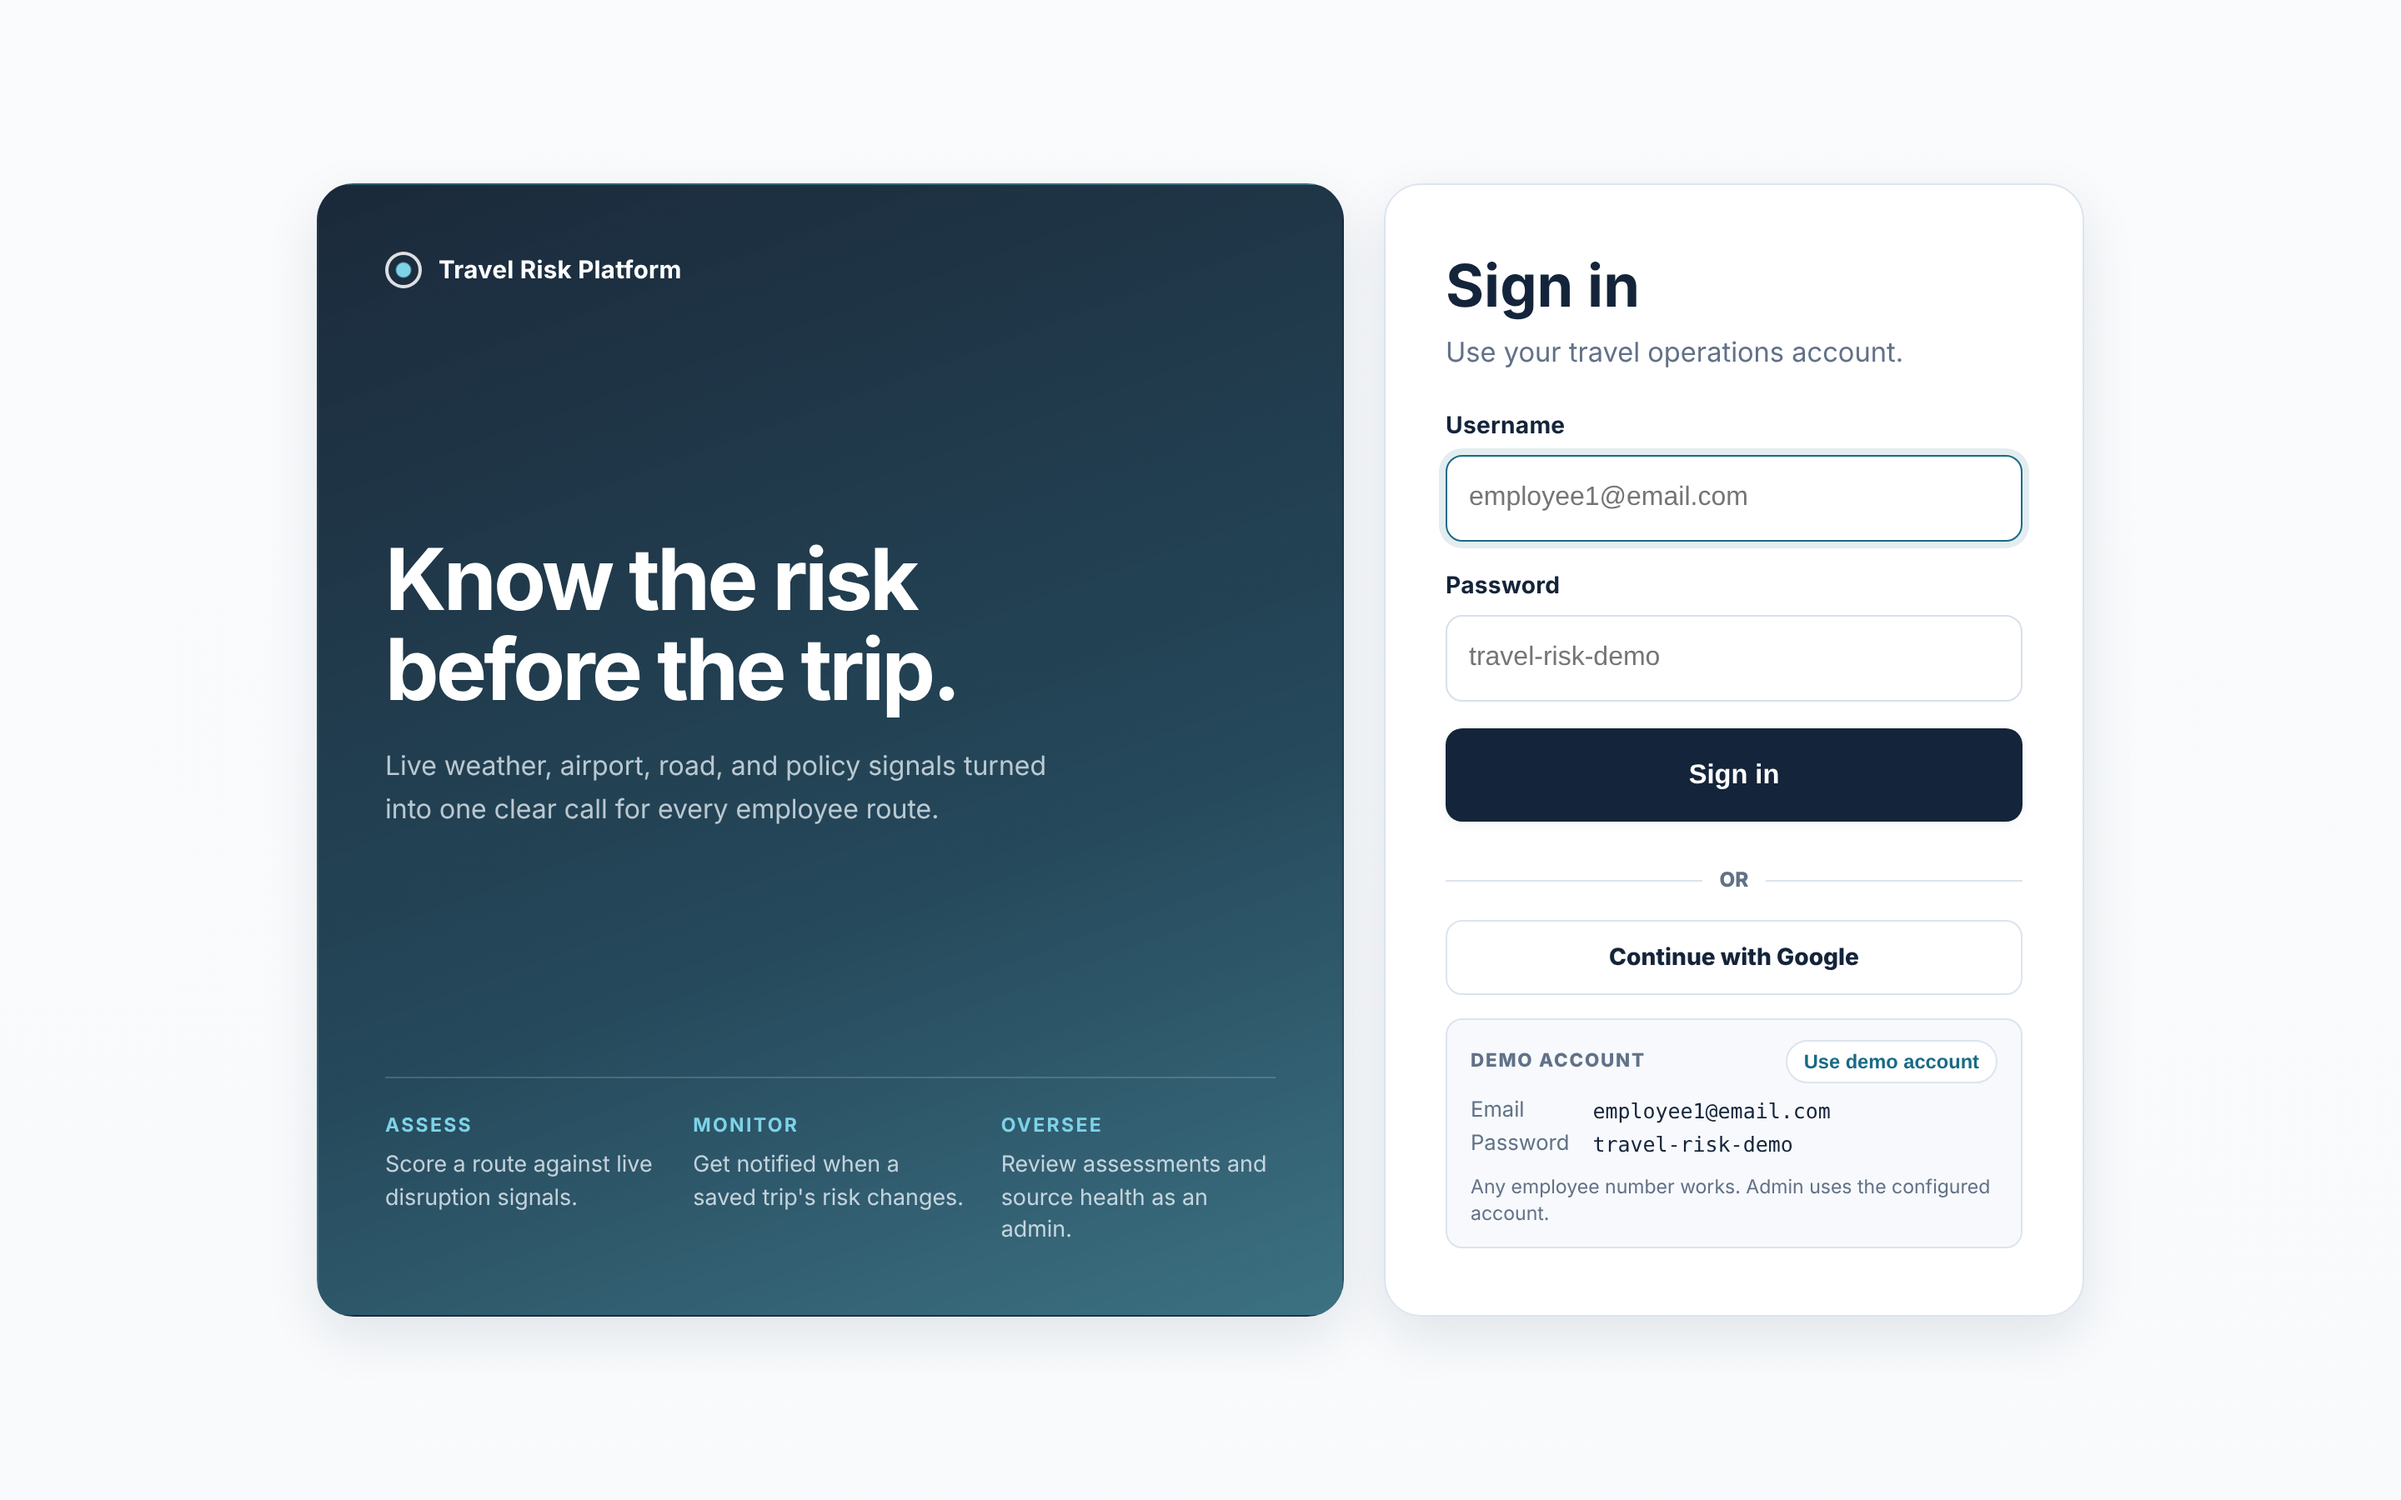
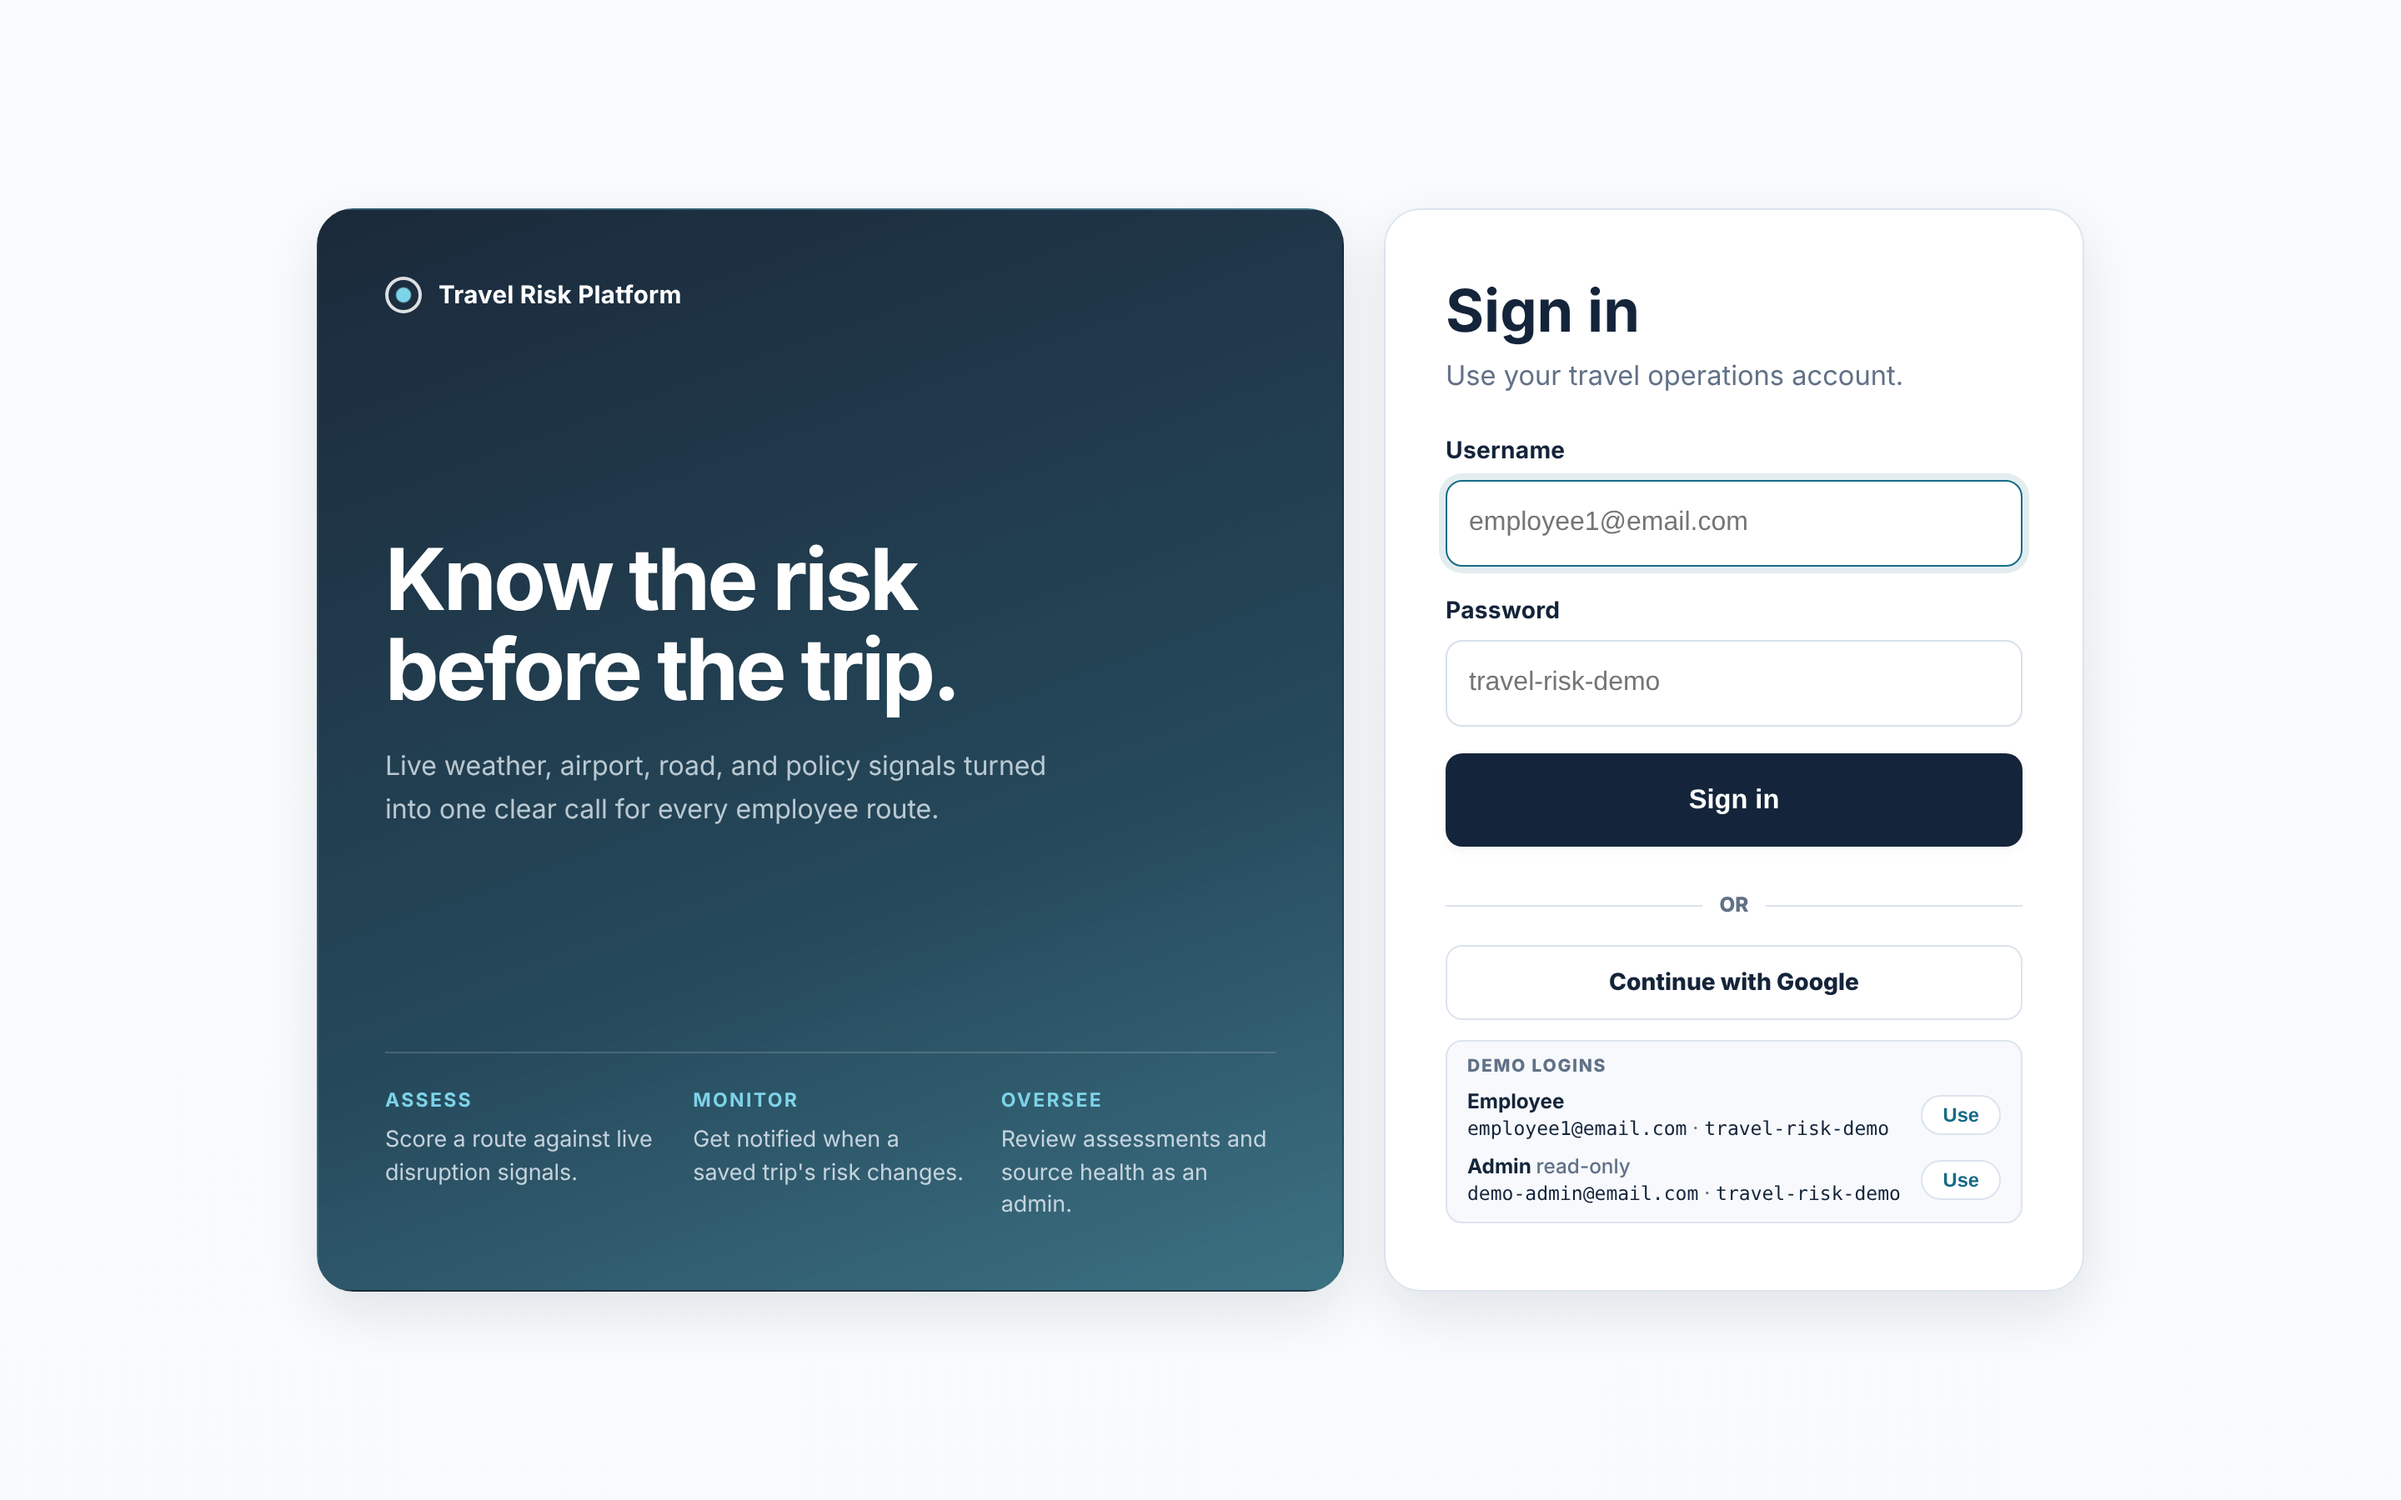
Make the login page demo logins compact
Merge the two demo boxes into one Demo logins panel with a row per
account and a small Use button, cutting its height from 276px to 110px
on desktop. Update README, demo script and login screenshot.

Claude-Session: https://claude.ai/code/session_01WgNrWASN7ot9DPt3NRGd4H

diff --git a/src/main/resources/static/login.html b/src/main/resources/static/login.html
@@ -54,31 +54,21 @@
     <a class="sso-button" href="/oauth2/authorization/google">Continue with Google</a>
 
     <section class="login-demo-note" aria-labelledby="demo-heading">
-      <div class="login-demo-header">
-        <h3 id="demo-heading">Demo account</h3>
-        <button type="button" class="login-demo-fill" data-demo-fill>Use demo account</button>
+      <h3 id="demo-heading">Demo logins</h3>
+      <div class="login-demo-row">
+        <div class="login-demo-account">
+          <span class="login-demo-role">Employee</span>
+          <span class="login-demo-creds"><code data-demo-username>employee1@email.com</code> · <code data-demo-password>travel-risk-demo</code></span>
+        </div>
+        <button type="button" class="login-demo-fill" data-demo-fill aria-label="Use demo employee account">Use</button>
       </div>
-      <dl class="login-demo-creds">
-        <dt>Email</dt>
-        <dd data-demo-username>employee1@email.com</dd>
-        <dt>Password</dt>
-        <dd data-demo-password>travel-risk-demo</dd>
-      </dl>
-      <p class="login-demo-hint">Any employee number works. Admin uses the configured account.</p>
-    </section>
-
-    <section class="login-demo-note hidden" aria-labelledby="demo-admin-heading" data-demo-admin>
-      <div class="login-demo-header">
-        <h3 id="demo-admin-heading">Demo admin (read-only)</h3>
-        <button type="button" class="login-demo-fill" data-demo-admin-fill>Use demo admin</button>
+      <div class="login-demo-row hidden" data-demo-admin>
+        <div class="login-demo-account">
+          <span class="login-demo-role">Admin <span class="login-demo-tag">read-only</span></span>
+          <span class="login-demo-creds"><code data-demo-admin-username></code> · <code data-demo-admin-password></code></span>
+        </div>
+        <button type="button" class="login-demo-fill" data-demo-admin-fill aria-label="Use demo admin account">Use</button>
       </div>
-      <dl class="login-demo-creds">
-        <dt>Email</dt>
-        <dd data-demo-admin-username></dd>
-        <dt>Password</dt>
-        <dd data-demo-admin-password></dd>
-      </dl>
-      <p class="login-demo-hint">Opens the admin dashboard for demo accounts only. It can't change or delete anything.</p>
     </section>
   </section>
 </main>

diff --git a/src/main/resources/static/styles.css b/src/main/resources/static/styles.css
@@ -217,36 +217,62 @@ body {
 
 .login-demo-note {
     display: grid;
-    gap: 8px;
-    margin-top: 14px;
-    padding: 12px 14px;
+    gap: 6px;
+    margin-top: 12px;
+    padding: 8px 12px;
     border: 1px solid var(--border-color);
     border-radius: var(--radius-sm);
     background: var(--bg-subtle);
-    font-size: 0.8rem;
-    line-height: 1.4;
+    font-size: 0.76rem;
+    line-height: 1.35;
 }
 
-.login-demo-header {
+.login-demo-note h3 {
+    margin: 0;
+    color: var(--text-muted);
+    font-size: 0.66rem;
+    font-weight: 800;
+    letter-spacing: 0.08em;
+    text-transform: uppercase;
+}
+
+.login-demo-row {
     display: flex;
     align-items: center;
     justify-content: space-between;
     gap: 10px;
 }
 
-.login-demo-header h3 {
-    margin: 0;
+.login-demo-account {
+    display: grid;
+    min-width: 0;
+}
+
+.login-demo-role {
+    color: var(--text-main);
+    font-weight: 700;
+}
+
+.login-demo-tag {
     color: var(--text-muted);
-    font-size: 0.7rem;
-    font-weight: 800;
-    letter-spacing: 0.08em;
-    text-transform: uppercase;
+    font-weight: 500;
+}
+
+.login-demo-creds {
+    overflow-wrap: anywhere;
+}
+
+.login-demo-creds code {
+    color: var(--text-main);
+    font-family: ui-monospace, SFMono-Regular, Menlo, Consolas, monospace;
+    font-size: 0.72rem;
 }
 
 .login-demo-fill {
+    flex: none;
     width: auto;
     min-height: 0;
-    padding: 5px 10px;
+    padding: 4px 12px;
     border: 1px solid var(--border-color);
     border-radius: 999px;
     background: var(--bg-card);
@@ -260,34 +286,6 @@ body {
 .login-demo-fill:hover {
     border-color: var(--accent);
     background: var(--bg-card);
-}
-
-.login-demo-creds {
-    display: grid;
-    grid-template-columns: auto minmax(0, 1fr);
-    gap: 2px 14px;
-    margin: 0;
-}
-
-.login-demo-creds dt {
-    color: var(--text-muted);
-}
-
-.login-demo-creds dd {
-    margin: 0;
-    overflow-wrap: anywhere;
-}
-
-.login-demo-creds dd {
-    color: var(--text-main);
-    font-family: ui-monospace, SFMono-Regular, Menlo, Consolas, monospace;
-    font-size: 0.78rem;
-}
-
-.login-demo-hint {
-    margin: 0;
-    color: var(--text-muted);
-    font-size: 0.72rem;
 }
 
 .login-form {

diff --git a/README.md b/README.md
@@ -124,8 +124,8 @@ While testing the live site, a **New York to San Francisco flight scored High (6
 
 - Live app: [https://travel-risk-platform.onrender.com](https://travel-risk-platform.onrender.com)
 - Login page: [https://travel-risk-platform.onrender.com/login](https://travel-risk-platform.onrender.com/login)
-- Employee demo logins: any `employee` plus a number at `email.com`, such as `employee1@email.com`, `employee5@email.com`, or `employee100@email.com` / `travel-risk-demo` (or click **Use demo account** on the login page)
-- Demo admin (read-only, sample data): `demo-admin@email.com` / `travel-risk-demo` (or click **Use demo admin** on the login page). See the operations manager's dashboard for the seeded demo employees; it can't change or delete anything.
+- Employee demo logins: any `employee` plus a number at `email.com`, such as `employee1@email.com`, `employee5@email.com`, or `employee100@email.com` / `travel-risk-demo` (or click **Use** next to Employee under Demo logins on the login page)
+- Demo admin (read-only, sample data): `demo-admin@email.com` / `travel-risk-demo` (or click **Use** next to Admin under Demo logins on the login page). See the operations manager's dashboard for the seeded demo employees; it can't change or delete anything.
 - Real admin login: set `TRAVEL_RISK_ADMIN_USERNAME` and `TRAVEL_RISK_ADMIN_PASSWORD` (never shared)
 
 The production deployment runs on Render with a managed Render Postgres database. Saved trips are persisted in the `saved_trips` table, and risk-change notifications are persisted in the `trip_notifications` table.
@@ -217,7 +217,7 @@ export OPENAI_MODEL=gpt-6-astra
 
 The dashboard is protected by Spring Security. Employee users can only see their own saved trips and notifications. Admin users can also see the company-wide dashboard, assessment history, and API monitoring views.
 
-For local demos, sign in as an employee with any `employee` plus a number at `email.com`, such as `employee1@email.com`, `employee5@email.com`, or `employee100@email.com` / `travel-risk-demo`. The **Use demo account** button on the login page fills these in for you. Configure an admin account with:
+For local demos, sign in as an employee with any `employee` plus a number at `email.com`, such as `employee1@email.com`, `employee5@email.com`, or `employee100@email.com` / `travel-risk-demo`. The **Use** button next to Employee under Demo logins on the login page fills these in for you. Configure an admin account with:
 
 ```bash
 export TRAVEL_RISK_EMPLOYEE_USERNAME_PATTERN='employee[0-9]+@email\.com'

diff --git a/docs/DEMO_SCRIPT.md b/docs/DEMO_SCRIPT.md
@@ -6,7 +6,7 @@ A talk track for a screen recording that walks an **operations manager** through
 
 - [ ] Open the [live app](https://travel-risk-platform.onrender.com) once a few minutes early so Render wakes up and the first check is fast.
 - [ ] Pick tonight's risky route. Check the [NWS alerts map](https://www.weather.gov/) or [FAA NAS status](https://nasstatus.faa.gov/) for a city with storms or a ground stop, and run it once to confirm it scores **Medium or High**. Have a calm route ready too (for example New York, NY to San Francisco, CA, flight).
-- [ ] Use only the public demo accounts on camera: the employee demo login and the **read-only demo admin** (`demo-admin@email.com` / `travel-risk-demo`, or **Use demo admin** on the login page). Never sign in with your real admin account while recording.
+- [ ] Use only the public demo accounts on camera: the employee demo login and the **read-only demo admin** (`demo-admin@email.com` / `travel-risk-demo`, or **Use** next to Admin under Demo logins on the login page). Never sign in with your real admin account while recording.
 - [ ] Sign in as the demo admin in a second browser profile or private window before you start, and check that the seeded demo trips show on the dashboard.
 - [ ] Download a fresh sample itinerary from *Your trips* → **Import** → Sample: CSV (the sample is dated from today, so its trips are inside the forecast window). Save it to your desktop as `acme-trips.csv`.
 - [ ] Browser at 100% zoom, notifications off, bookmarks bar hidden.
@@ -21,7 +21,7 @@ A talk track for a screen recording that walks an **operations manager** through
 
 ### 0:15 to 0:50, a risky trip
 
-*Click **Use demo account**, sign in, enter the risky route and date, choose Flight, click **Assess trip risk**.*
+*Click **Use** next to Employee under Demo logins, sign in, enter the risky route and date, choose Flight, click **Assess trip risk**.*
 
 > "I'm an employee flying [origin] to [destination] on [date]. In a few seconds the app has checked eight live sources in parallel: forecasts at both ends and the midpoint, National Weather Service alerts, airport weather, FAA delays and ground stops, and road closures."
 
